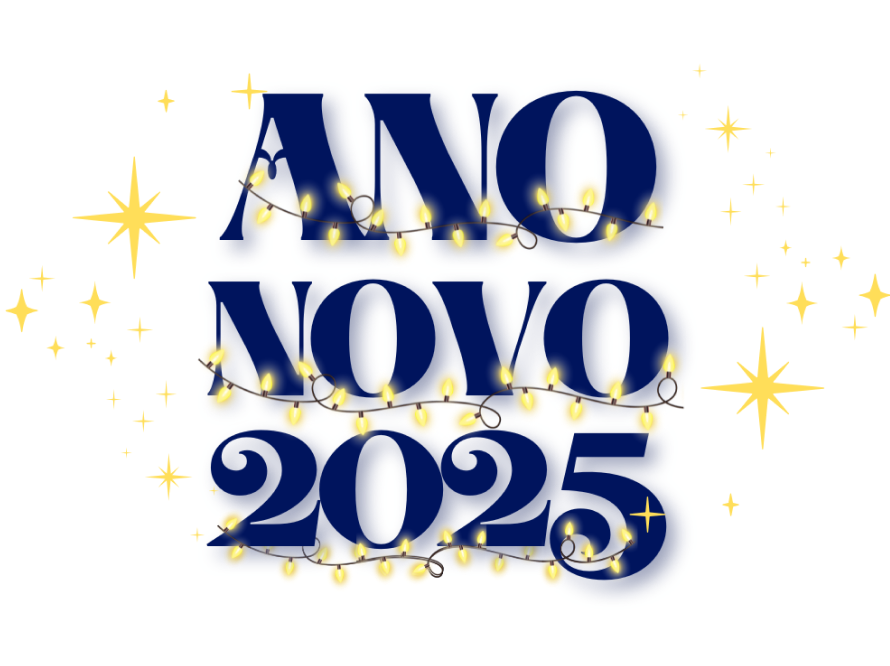
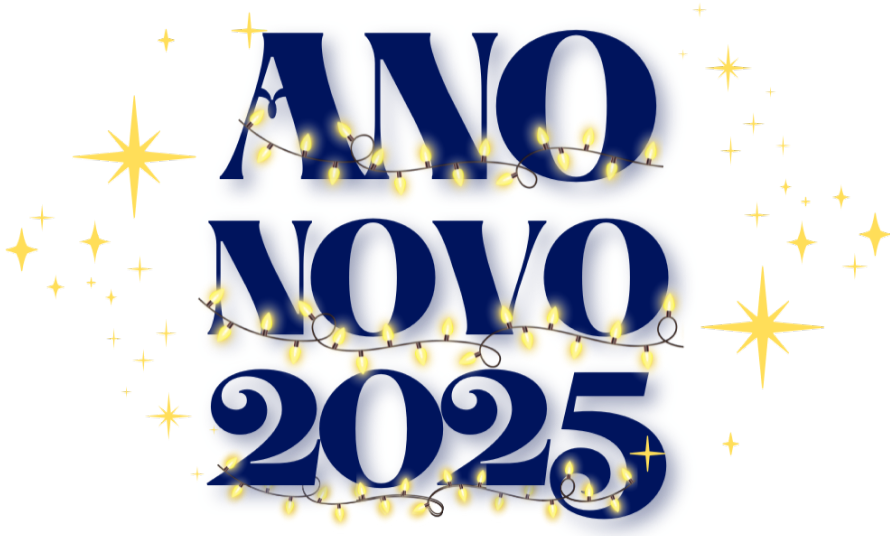
feat(custom): finalização da página principal
Arquivos alterados:
src/App.jsx
src/assets/imgs/imagemAnoNovo.png
src/styles/app.module.scss

diff --git a/src/App.jsx b/src/App.jsx
@@ -1,3 +1,6 @@
+import { Fireworks } from '@fireworks-js/react'
+import { useEffect, useRef, useState } from 'react'
+
 import S from './styles/app.module.scss'
 
 import { Header } from './components/Header/Header'
@@ -11,34 +14,86 @@ import forma3 from '@assets/imgs/forma-3.png'
 import forma4 from '@assets/imgs/forma-4.png'
 
 export function App() {
+  const fireworksContainerRef = useRef()
+
+  const [mostrarFormas, setMostrarFormas] = useState(false)
+
+  const exibirFormas = () => {
+    const timer = setTimeout(() => {
+      setMostrarFormas(true)
+    }, 1400)
+
+    return () => clearTimeout(timer)
+  }
+
+  useEffect(() => {
+    exibirFormas()
+  }, [])
+
+  setTimeout(() => {
+    if (fireworksContainerRef.current) {
+      fireworksContainerRef.current.start()
+    }
+  }, 1500)
+
+  setTimeout(() => {
+    if (fireworksContainerRef.current) {
+      fireworksContainerRef.current.waitStop(true)
+    }
+  }, 13000)
+
   return (
     <>
       <main>
-        <div className={S.formas_container}>
-          <img
-            className={S.formas_container__top_left}
-            src={forma1}
-            alt="forma 1"
-          />
-
-          <img
-            className={S.formas_container__top_right}
-            src={forma2}
-            alt="forma 2"
-          />
-
-          <img
-            className={S.formas_container__bottom_left}
-            src={forma3}
-            alt="forma 3"
-          />
-
-          <img
-            className={S.formas_container__bottom_right}
-            src={forma4}
-            alt="forma 4"
+        <div className={S.fireworks_container}>
+          <Fireworks
+            ref={fireworksContainerRef}
+            options={{
+              autoresize: true,
+              opacity: 0.9,
+              acceleration: 1,
+              particles: 85,
+              explosion: 9,
+              trace: 3,
+              delay: { min: 100, max: 300 }
+            }}
+            style={{
+              width: '100%',
+              height: '100%',
+              position: 'fixed',
+              zIndex: -1,
+              background: 'transparent'
+            }}
           />
         </div>
+
+        {mostrarFormas && (
+          <div className={S.formas_container}>
+            <img
+              className={S.formas_container__top_left}
+              src={forma1}
+              alt="forma 1"
+            />
+
+            <img
+              className={S.formas_container__top_right}
+              src={forma2}
+              alt="forma 2"
+            />
+
+            <img
+              className={S.formas_container__bottom_left}
+              src={forma3}
+              alt="forma 3"
+            />
+
+            <img
+              className={S.formas_container__bottom_right}
+              src={forma4}
+              alt="forma 4"
+            />
+          </div>
+        )}
 
         <Header />
 
@@ -64,9 +119,9 @@ export function App() {
             </div>
           </section>
         </section>
-
-        <Footer />
       </main>
+
+      <Footer />
     </>
   )
 }

diff --git a/src/styles/app.module.scss b/src/styles/app.module.scss
@@ -1,38 +1,59 @@
-.formas_container {
-  $top: 0;
-  $bottom: 0;
-  
+@keyframes aparecer-formas-topo {
+  from {
+    transform: translateY(-100%);
+  }
+
+  to {
+    transform: translateY(0);
+  }
+}
+
+@keyframes aparecer-formas-bottom {
+  from {
+    transform: translateY(100%);
+  }
+
+  to {
+    transform: translateY(0);
+  }
+}
+
+.formas_container {  
   position: absolute;
-  z-index: -1;
-  width: 100vw;
-  height: 100vh;
-  
+  width: 50%;
+  height: 50%;
+
   img {
-    position: absolute;
+    position: fixed;
+    z-index: -1;
   }
 
   &__top_left {
-    top: $top;
+    top: 0;
     left: 0;
     width: 40rem;
+    animation: aparecer-formas-topo 1.8s ease-in-out forwards;
   }
 
   &__top_right {
-    top: $top;
+    top: 0;
     right: 0;
     width: 22rem;
+    animation: aparecer-formas-topo 1.8s ease-in-out forwards;
   }
 
   &__bottom_left {
-    bottom: $bottom;
+    bottom: 0;
     left: 0;
     width: 25rem;
+    animation: aparecer-formas-bottom 1.8s ease-in-out forwards;
   }
 
   &__bottom_right {
     right: 0;
-    bottom: $bottom;
+    bottom: 0;
     width: 42rem;
+    animation: aparecer-formas-bottom 1.8s ease-in-out forwards;
   }
 }
 
@@ -42,11 +63,25 @@
   justify-content: center;
   gap: 4rem;
   width: 94vw;
-  margin: 3rem auto;
+  height: 54dvh;
+  margin: 0 auto;
+  margin-top: 12vh;
 }
 
 .ano_novo__imagem img {
-  width: 670px;
+  width: 590px;
+  animation: glow 1.5s infinite alternate;
+  animation-delay: 2s;
+
+  @keyframes glow {
+    0% {
+      filter: drop-shadow(0 0 2px #f1c40f);
+    }
+
+    100% {
+      filter: drop-shadow(0 0 10px #f1c40f);
+    }
+  }
 }
 
 .mensagem {
@@ -73,5 +108,64 @@
     font-size: 2.5rem;
     line-height: 1.4;
     color: $navy-blue;
+  }
+}
+
+@media (max-width: $breakpoint-tablet) {
+  .formas_container {
+    &__top_left {
+      width: 18rem;
+    }
+
+    &__top_right {
+      width: 13rem;
+    }
+
+    &__bottom_left {
+      width: 10rem;
+    }
+
+    &__bottom_right {
+      width: 18rem;
+    }
+  }
+  
+  .ano_novo {
+    flex-direction: column;
+    gap: 1.5rem;
+    height: auto;
+    margin-top: 4vh;
+  }
+
+  .ano_novo__imagem {
+    margin: 0 auto;
+
+    img {
+      width: 350px;
+    }
+  }
+
+  .mensagem {
+    text-align: center;
+
+    h1 {
+      font-size: 3rem;
+    }
+
+    h2 {
+      font-size: 4rem;
+    }
+  }
+
+  .mensagem__poema {
+    margin-top: 1.5rem;
+
+    p {
+      width: 92%;
+      margin: 0 auto;
+      font-size: 2.1rem;
+      line-height: 1.5;
+      text-align: justify;
+    }
   }
 }
